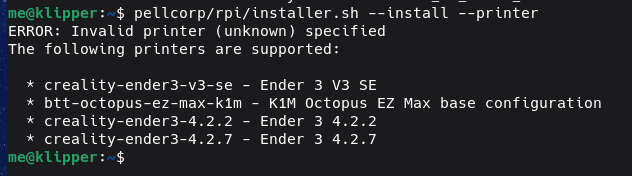
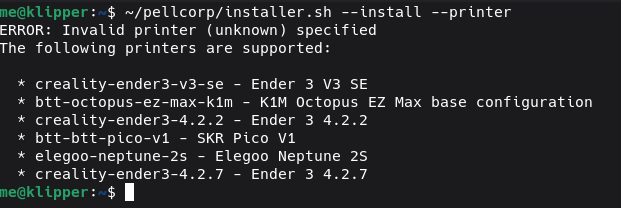
update to show don't need pellcorp/rpi/installer.sh

Changed region(s): [[0.0, 0.0, 0.9791, 1.0]]

diff --git a/docs/rpi.md b/docs/rpi.md
@@ -94,7 +94,7 @@ The following commands should be executed to get the repo locally:
 sudo apt-get update
 sudo apt-get install --yes git wget
 git clone https://github.com/pellcorp/creality.git ~/pellcorp
-~/pellcorp/rpi/installer.sh --branch jp_simpleaf_rpi
+~/pellcorp/installer.sh --branch jp_simpleaf_rpi
 ```
 
 ### Installing
